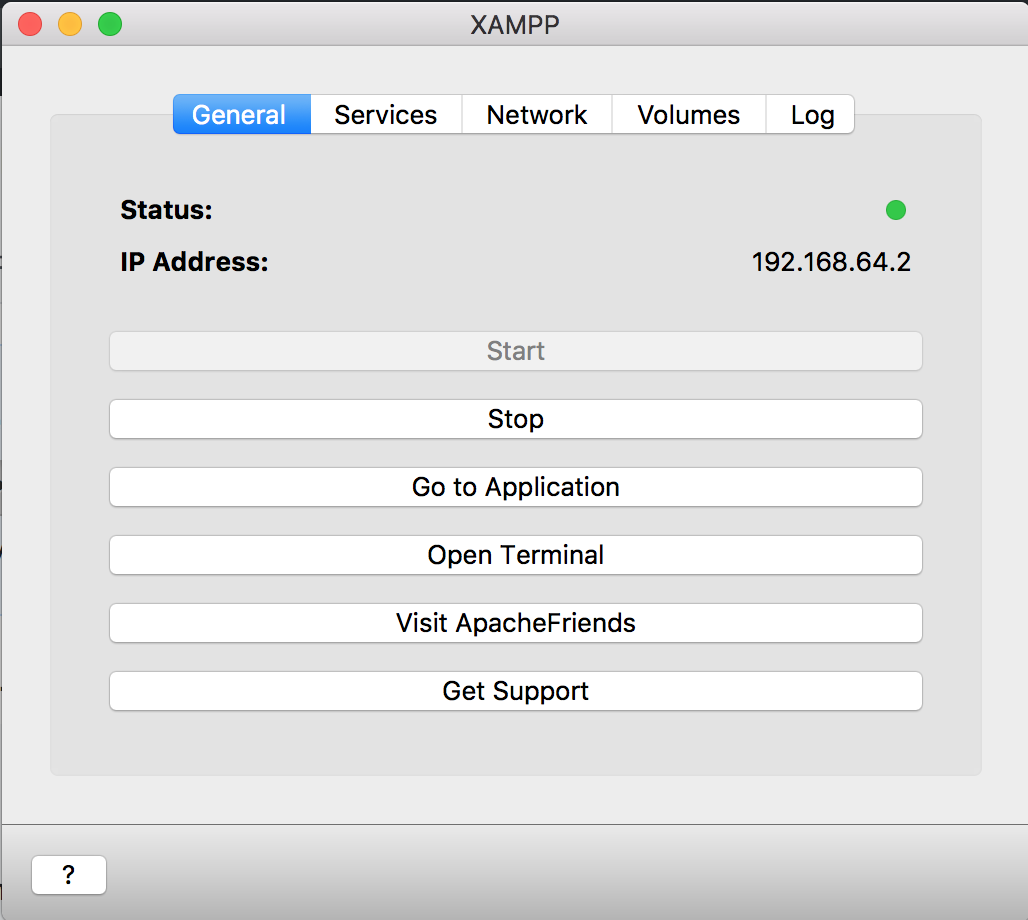
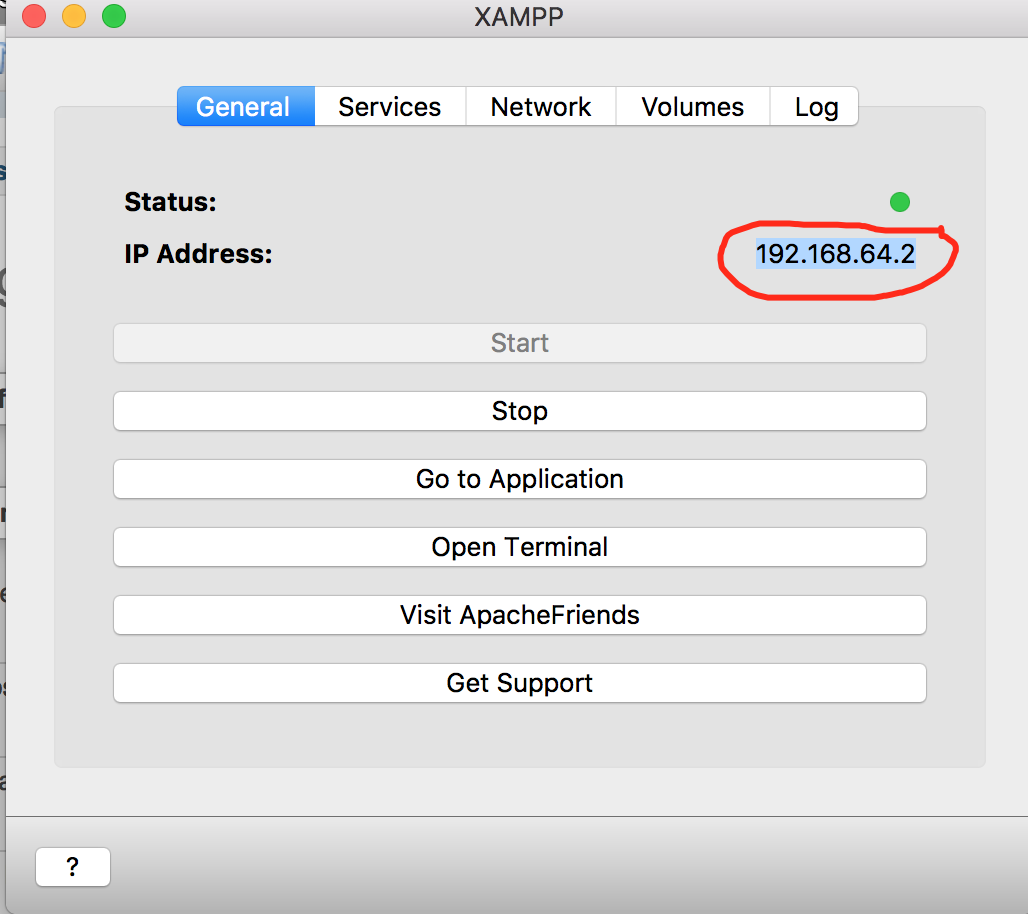
added comment + images

diff --git a/services/DBService.js b/services/DBService.js
@@ -3,7 +3,7 @@ const mysql = require('mysql');
 var connection;
 
 const dbConfig = {
-	host: '192.168.64.2',
+	host: '192.168.64.2', // you need to provide your xampp ip (see the image)
 	// host: 'localhost',
 	user: 'admin',
 	password: 'admin'
